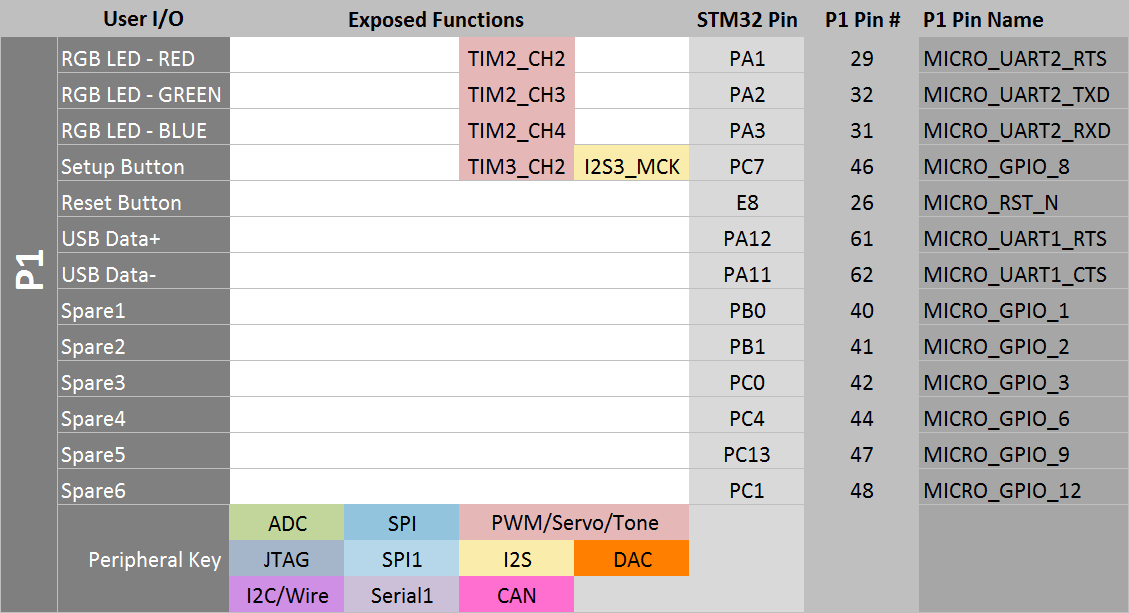
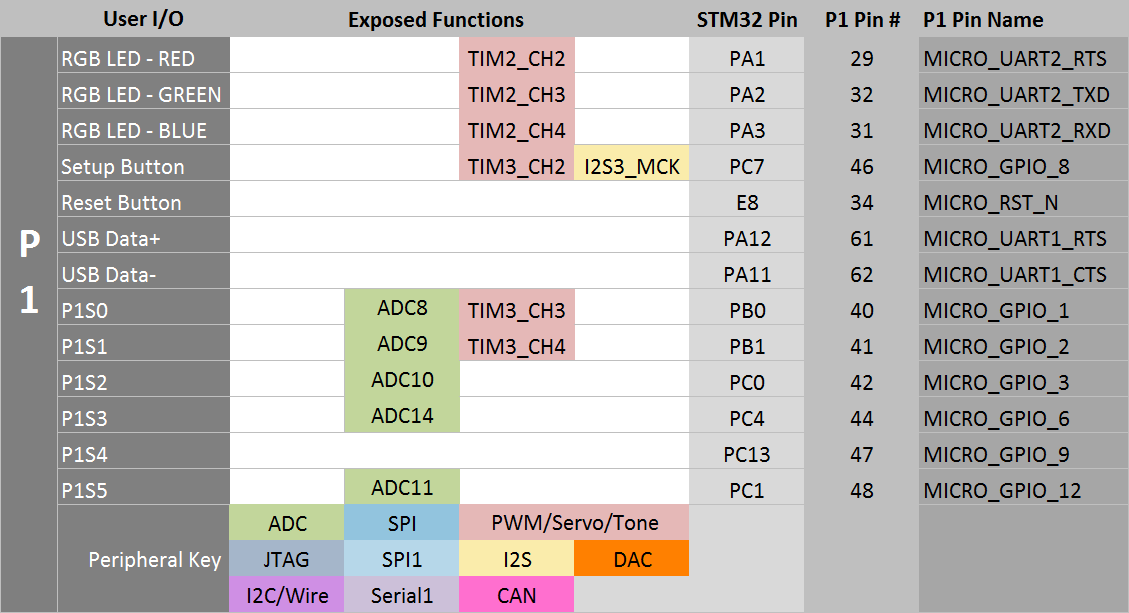
SPARE pins updated (P1S0~P1S5) with peripheral descriptions, also updated corrected p1-pinout3.png

diff --git a/src/content/datasheets/p1-datasheet.md b/src/content/datasheets/p1-datasheet.md
@@ -80,16 +80,15 @@ The P1 module has ton of capability in a super small footprint, with analog, dig
 
 | Peripheral Type | Qty | Input(I) / Output(O) | FT<sup>[1]</sup> / 3V3<sup>[2]</sup> |
 | :-:|:-:|:-:|:-: |
-| Digital | 18 | I/O | FT/3V3 |
-| Analog (ADC) | 8 | I | 3V3 |
+| Digital | 24 | I/O | FT/3V3 |
+| Analog (ADC) | 13 | I | 3V3 |
 | Analog (DAC) | 2 | O | 3V3 |
 | SPI | 2 | I/O | 3V3 |
 | I2S | 1 | I/O | 3V3 |
 | I2C | 1 | I/O | FT |
 | CAN | 1 | I/O | FT |
 | USB | 1 | I/O | 3V3 |
-| PWM | 9<sup>3</sup> | O | 3V3 |
-| Spare<sup>[4]</sup> | 6 | I/O | FT/3V3 |
+| PWM | 11<sup>3</sup> | O | 3V3 |
 
 **Notes:**
 
@@ -97,13 +96,11 @@ The P1 module has ton of capability in a super small footprint, with analog, dig
 
 <sup>[2]</sup> 3V3 = 3.3V max pins.
 
-<sup>[3]</sup> PWM is available on D0, D1, D2, D3, A4, A5, WKP, RX, TX with a caveat: PWM timer peripheral is duplicated on two pins (A5/D2) and (A4/D3) for 7 total independent PWM outputs. For example: PWM may be used on A5 while D2 is used as a GPIO, or D2 as a PWM while A5 is used as an analog input. However A5 and D2 cannot be used as independently controlled PWM outputs at the same time.
-
-<sup>[4]</sup> There are 6 extra pins that have digital I/O capability.  There are other peripherals that are available on these pins as well, which will be implemented in firmware and documented in a future version of this document.
+<sup>[3]</sup> PWM is available on D0, D1, D2, D3, A4, A5, WKP, RX, TX, P1S0, P1S1 with a caveat: PWM timer peripheral is duplicated on two pins (A5/D2) and (A4/D3) for 7 total independent PWM outputs. For example: PWM may be used on A5 while D2 is used as a GPIO, or D2 as a PWM while A5 is used as an analog input. However A5 and D2 cannot be used as independently controlled PWM outputs at the same time.
 
 ### RGB LED, SETUP and RESET button
 
-When using the P1 module, it is very important to remember that your device must have an RGB LED to show the user the connectivity status.  Also required is a SETUP and RESET button to enter various [Device Modes](/guide/getting-started/modes). By default the RGB LED outputs are configured for a Common Anode type of LED. These components should be wired according to the [P1 Reference Design - User I/O](#schematic-user-i-o).
+When using the P1 module, it is very important to remember that your device must have an RGB LED to show the user the connectivity status.  Also required is a SETUP and RESET button to enter various [Device Modes](/guide/getting-started/modes). By default the RGB LED outputs are configured for a Common Anode type of LED. These components should be wired according to the [P1 Reference Design - User I/O](#schematic-user-i-o).  RGB pins may be accessed in code as: RGBR, RGBG and RGBB.
 
 ### JTAG and SWD
 
@@ -239,12 +236,17 @@ echo -e "\xFF" > fillbyte && dfu-util -d 2b04:d00a -a 1 -s 3106 -D fillbyte
 | RST | Active-low reset input. On-board circuitry contains a 1k ohm pull-up resistor between RST and 3V3, and 0.1uF capacitor between RST and GND. |
 | VBAT | Supply to the internal RTC, backup registers and SRAM when 3V3 not present (1.65 to 3.6VDC). |
 | 3V3  | This pin represents the regulated +3.3V DC power to the P1 module.  In reality, +3.3V must be supplied to 3 different inputs: VBAT_WL (pin 2 & 3), VDDIO_3V3_WL (pin 5), VDD_3V3 (pin 26 & 27). Optionally +3.3V may be supplied to VBAT_MICRO (pin 38) for data retention in low power sleep modes. Each of these inputs also requires a 0.1uF and 10uF ceramic decoupling capacitor, located as close as possible to the pin. |
-| D0~D7 | Digital only GPIO pins. |
-| A0~A7 | 12-bit Analog-to-Digital (A/D) inputs (0-4095), and also digital GPIOs. `A6` and `A7` are code convenience mappings, which means pins are not actually labeled as such but you may use code like `analogRead(A7)`.  `A6` maps to the DAC pin and `A7` maps to the WKP pin. |
+| D0~D7 | Digital only GPIO pins. D0~D3 may also be used as a PWM output. |
+| A0~A7 | 12-bit Analog-to-Digital (A/D) inputs (0-4095), and also digital GPIOs. `A6` and `A7` are code convenience mappings, which means pins are not actually labeled as such but you may use code like `analogRead(A7)`.  `A6` maps to the DAC pin and `A7` maps to the WKP pin. A4,A5,A7 may also be used as a PWM output. |
 | DAC   | 12-bit Digital-to-Analog (D/A) output (0-4095), and also a digital GPIO. DAC is used as `DAC` or `DAC1` in software, and A3 is a second DAC output used as `DAC2` in software. |
 | RX    | Primarily used as UART RX, but can also be used as a digital GPIO or PWM. |
 | TX    | Primarily used as UART TX, but can also be used as a digital GPIO or PWM. |
-| Spare 1-6    | Primarily used as GPIO. There are other peripherals that are available on these pins as well, which will be implemented in firmware and documented in a future version of this document. |
+| P1S0 | 12-bit Analog-to-Digital (A/D) inputs (0-4095), and also can be used as a digital GPIO or PWM. |
+| P1S1 | 12-bit Analog-to-Digital (A/D) inputs (0-4095), and also can be used as a digital GPIO or PWM. |
+| P1S2 | 12-bit Analog-to-Digital (A/D) inputs (0-4095), and also can be used as a digital GPIO. |
+| P1S3 | 12-bit Analog-to-Digital (A/D) inputs (0-4095), and also can be used as a digital GPIO. |
+| P1S4 | Primarily used as a digital GPIO. |
+| P1S5 | 12-bit Analog-to-Digital (A/D) inputs (0-4095), and also can be used as a digital GPIO. |
 
 ### Pin out diagrams
 
@@ -273,38 +275,38 @@ echo -e "\xFF" > fillbyte && dfu-util -d 2b04:d00a -a 1 -s 3106 -D fillbyte
 | 18	|	WL_JTAG_TRSTN	|	DEBUG	|	BCM43362 Debugging Pin |
 | 19	|	WL_JTAG_TMS	|	DEBUG	|	BCM43362 Debugging Pin |
 | 20	|	WL_JTAG_TDO	|	DEBUG	|	BCM43362 Debugging Pin |
-| 21	|	MICRO_SPI1_MISO	|	PA6	|	A4, SPI MISO |
-| 22	|	MICRO_SPI1_SCK	|	PA5	|	A3, SPI SCK |
-| 23	|	MICRO_SPI1_MOSI	|	PA7	|	A5, SPI MOSI |
-| 24	|	MICRO_SPI1_SS	|	PA4	|	DAC,  SPI SS |
+| 21	|	MICRO_SPI1_MISO	|	PA6	|	A4 (SPI MISO) |
+| 22	|	MICRO_SPI1_SCK	|	PA5	|	A3 (SPI SCK) |
+| 23	|	MICRO_SPI1_MOSI	|	PA7	|	A5 (SPI MOSI) |
+| 24	|	MICRO_SPI1_SS	|	PA4	|	DAC (SPI SS) |
 | 25	|	GND	|	PWR	|	Ground |
 | 26~27	|	VDD_3V3	|	PWR	|	+3.3V |
 | 28	|	GND	|	PWR	|	Ground |
-| 29	|	MICRO_UART2_RTS	|	PA1	|	RGB_LED_RED |
+| 29	|	MICRO_UART2_RTS	|	PA1	|	RGBR (RGB LED RED) |
 | 30	|	MICRO_UART2_CTS	|	PA0	|	WKP |
-| 31	|	MICRO_UART2_RXD	|	PA3	|	RGB_LED_BLUE |
-| 32	|	MICRO_UART2_TXD	|	PA2	|	RGB_LED_GREEN |
+| 31	|	MICRO_UART2_RXD	|	PA3	|	RGBB (RGB LED BLUE) |
+| 32	|	MICRO_UART2_TXD	|	PA2	|	RGBG (RGB LED GREEN) |
 | 33	|	TESTMODE	|	PA8	| GPIO (see STM32F205RGY6 datasheet) |
-| 34	|	MICRO_RST_N	|	I	|	/RESET, Active low MCU reset |
-| 35	|	MICRO_I2C1_SCL	|	PB6	|	D1, I2C SCL |
-| 36	|	MICRO_I2C1_SDA	|	PB7	|	D0, I2C SDA |
+| 34	|	MICRO_RST_N	|	I	|	/RESET (Active low MCU reset) |
+| 35	|	MICRO_I2C1_SCL	|	PB6	|	D1 (I2C SCL) |
+| 36	|	MICRO_I2C1_SDA	|	PB7	|	D0 (I2C SDA) |
 | 37	|	GND	|	PWR	|	Ground |
 | 38	|	VBAT_MICRO	|	PWR	|	Supply to the internal RTC, backup registers and SRAM when 3V3 not present (1.65 to 3.6VDC) |
 | 39	|	GND	|	PWR	|	Ground |
-| 40	|	MICRO_GPIO_1	|	PB0	|	SPARE1 |
-| 41	|	MICRO_GPIO_2	|	PB1	|	SPARE2 |
-| 42	|	MICRO_GPIO_3	|	PC0	|	SPARE3 |
+| 40	|	MICRO_GPIO_1	|	PB0	|	P1S0 |
+| 41	|	MICRO_GPIO_2	|	PB1	|	P1S1 |
+| 42	|	MICRO_GPIO_3	|	PC0	|	P1S2 |
 | 43	|	MICRO_GPIO_5	|	PC3	|	A1 |
-| 44	|	MICRO_GPIO_6	|	PC4	|	SPARE4 |
-| 45	|	MICRO_GPIO_7	|	PB5	|	D2, I2S SD |
-| 46	|	MICRO_GPIO_8	|	PC7	|	/SETUP, I2S MCK |
-| 47	|	MICRO_GPIO_9	|	PC13	|	SPARE5 |
-| 48	|	MICRO_GPIO_12	|	PC1	|	SPARE6 |
+| 44	|	MICRO_GPIO_6	|	PC4	|	P1S3 |
+| 45	|	MICRO_GPIO_7	|	PB5	|	D2 (I2S SD) |
+| 46	|	MICRO_GPIO_8	|	PC7	|	/SETUP (I2S MCK) |
+| 47	|	MICRO_GPIO_9	|	PC13	|	P1S4 |
+| 48	|	MICRO_GPIO_12	|	PC1	|	P1S5 |
 | 49	|	MICRO_GPIO_13	|	PC2	|	A2 |
 | 50	|	MICRO_GPIO_14	|	PC5	|	A0 |
 | 51	|	MICRO_JTAG_TRSTN	|	PB4	|	D3 |
-| 52	|	MICRO_JTAG_TDO	|	PB3	|	D4, I2S SCK |
-| 53	|	MICRO_JTAG_TDI	|	PA15	|	D5, I2S WS |
+| 52	|	MICRO_JTAG_TDO	|	PB3	|	D4 (I2S SCK) |
+| 53	|	MICRO_JTAG_TDI	|	PA15	|	D5 (I2S WS) |
 | 54	|	MICRO_JTAG_TMS	|	PA13	|	D7 |
 | 55	|	MICRO_JTAG_TCK	|	PA14	|	D6 |
 | 56	|	BTCX_STATUS	|	I	|	Coexistence signal: Bluetooth status and TX/RX direction |
